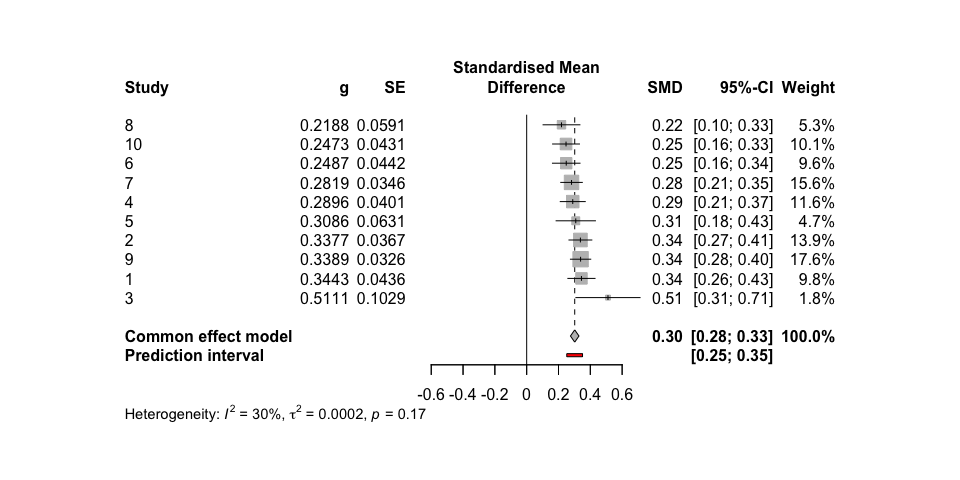
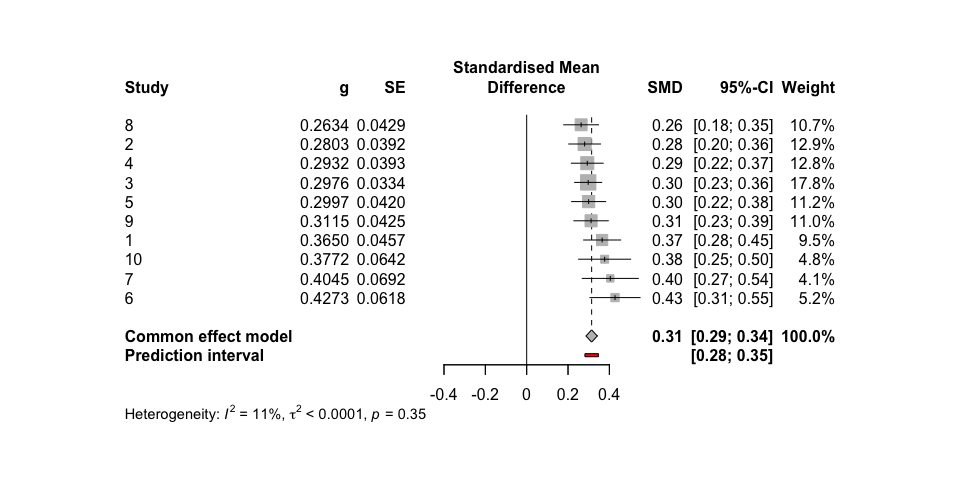
message chunks

diff --git a/README.md b/README.md
@@ -48,29 +48,18 @@ head(sim)
 #> # A tibble: 6 × 10
 #>   study hedges_g     se   mean_x mean_y  sd_x  sd_y   n_x   n_y      vi
 #>   <int>    <dbl>  <dbl>    <dbl>  <dbl> <dbl> <dbl> <int> <int>   <dbl>
-#> 1     1    0.344 0.0436 -0.00709  0.329 0.974 0.979  1069  1069 0.00190
-#> 2     2    0.338 0.0367  0.00981  0.349 0.963 1.05   1508  1508 0.00135
-#> 3     3    0.511 0.103  -0.0803   0.451 1.01  1.07    195   195 0.0106 
-#> 4     4    0.290 0.0401  0.0438   0.333 0.983 1.01   1257  1257 0.00161
-#> 5     5    0.309 0.0631 -0.0278   0.287 1.05  0.991   509   509 0.00398
-#> 6     6    0.249 0.0442  0.0173   0.272 1.04  1.00   1032  1032 0.00195
+#> 1     1    0.365 0.0457 -0.0101   0.359 1.00  1.02    975   975 0.00209
+#> 2     2    0.280 0.0392  0.0250   0.306 0.991 1.02   1317  1317 0.00153
+#> 3     3    0.298 0.0334  0.00602  0.305 1.01  0.999  1817  1817 0.00111
+#> 4     4    0.293 0.0393 -0.00129  0.301 1.04  1.02   1309  1309 0.00154
+#> 5     5    0.300 0.0420 -0.00234  0.300 1.01  1.00   1147  1147 0.00176
+#> 6     6    0.427 0.0618 -0.0634   0.365 1.00  0.998   535   535 0.00382
 ```
 
 # Effect size and standard error
 
 ``` r
 require(tidyverse)
-#> Loading required package: tidyverse
-#> ── Attaching core tidyverse packages ──────────────────────── tidyverse 2.0.0 ──
-#> ✔ dplyr     1.1.4     ✔ readr     2.1.4
-#> ✔ forcats   1.0.0     ✔ stringr   1.5.0
-#> ✔ ggplot2   3.4.4     ✔ tibble    3.2.1
-#> ✔ lubridate 1.9.3     ✔ tidyr     1.3.0
-#> ✔ purrr     1.0.2     
-#> ── Conflicts ────────────────────────────────────────── tidyverse_conflicts() ──
-#> ✖ dplyr::filter() masks stats::filter()
-#> ✖ dplyr::lag()    masks stats::lag()
-#> ℹ Use the conflicted package (<http://conflicted.r-lib.org/>) to force all conflicts to become errors
 
 ggplot(sim, aes(x = hedges_g, y = log(se), color = n_x))+
   geom_point(alpha = 0.5)+
@@ -106,29 +95,29 @@ summary(metaanalysis)
 #> Review:     Meta-Analysis fixed-effect
 #> 
 #>       SMD           95%-CI %W(common)
-#> 1  0.3443 [0.2589; 0.4297]        9.8
-#> 2  0.3377 [0.2658; 0.4096]       13.9
-#> 3  0.5111 [0.3094; 0.7128]        1.8
-#> 4  0.2896 [0.2110; 0.3682]       11.6
-#> 5  0.3086 [0.1850; 0.4322]        4.7
-#> 6  0.2487 [0.1620; 0.3353]        9.6
-#> 7  0.2819 [0.2142; 0.3497]       15.6
-#> 8  0.2188 [0.1030; 0.3347]        5.3
-#> 9  0.3389 [0.2750; 0.4027]       17.6
-#> 10 0.2473 [0.1629; 0.3318]       10.1
+#> 1  0.3650 [0.2755; 0.4545]        9.5
+#> 2  0.2803 [0.2036; 0.3571]       12.9
+#> 3  0.2976 [0.2322; 0.3630]       17.8
+#> 4  0.2932 [0.2162; 0.3702]       12.8
+#> 5  0.2997 [0.2174; 0.3820]       11.2
+#> 6  0.4273 [0.3061; 0.5485]        5.2
+#> 7  0.4045 [0.2689; 0.5402]        4.1
+#> 8  0.2634 [0.1792; 0.3475]       10.7
+#> 9  0.3115 [0.2283; 0.3947]       11.0
+#> 10 0.3772 [0.2514; 0.5030]        4.8
 #> 
 #> Number of studies: k = 10
 #> 
 #>                        SMD           95%-CI     z  p-value
-#> Common effect model 0.3020 [0.2752; 0.3288] 22.09 < 0.0001
+#> Common effect model 0.3142 [0.2867; 0.3418] 22.34 < 0.0001
 #> 
 #> Quantifying heterogeneity:
-#>  tau^2 = 0.0002 [0.0000; 0.0151]; tau = 0.0156 [0.0000; 0.1230]
-#>  I^2 = 29.6% [0.0%; 66.3%]; H = 1.19 [1.00; 1.72]
+#>  tau^2 < 0.0001 [0.0000; 0.0077]; tau = 0.0011 [0.0000; 0.0878]
+#>  I^2 = 10.5% [0.0%; 51.0%]; H = 1.06 [1.00; 1.43]
 #> 
 #> Test of heterogeneity:
 #>      Q d.f. p-value
-#>  12.79    9  0.1725
+#>  10.06    9  0.3459
 #> 
 #> Details on meta-analytical method:
 #> - Inverse variance method
@@ -162,12 +151,12 @@ head(sim)
 #> # A tibble: 6 × 10
 #>   study hedges_g     se   mean_x mean_y  sd_x  sd_y   n_x   n_y      vi
 #>   <int>    <dbl>  <dbl>    <dbl>  <dbl> <dbl> <dbl> <int> <int>   <dbl>
-#> 1     1    0.704 0.0347  0.0320   0.734 0.971 1.02   1760  1760 0.00121
-#> 2     2    0.627 0.0357 -0.00514  0.632 1.00  1.03   1649  1649 0.00127
-#> 3     3    0.666 0.0399  0.00806  0.666 0.991 0.984  1324  1324 0.00159
-#> 4     4    0.599 0.0362  0.0108   0.608 0.985 1.01   1592  1592 0.00131
-#> 5     5    0.693 0.0969  0.0329   0.755 1.05  1.03    226   226 0.00938
-#> 6     6    0.708 0.0838  0.0131   0.735 1.01  1.02    303   303 0.00701
+#> 1     1    0.815 0.0433 -0.0621   0.749 1.00  0.990  1155  1155 0.00188
+#> 2     2    0.582 0.0795  0.0749   0.686 1.10  1.00    330   330 0.00632
+#> 3     3    0.680 0.0623 -0.0652   0.640 1.06  1.02    545   545 0.00388
+#> 4     4    0.717 0.0381 -0.00661  0.715 1.01  1.00   1468  1468 0.00145
+#> 5     5    0.511 0.0384  0.107    0.622 0.993 1.02   1401  1401 0.00147
+#> 6     6    0.734 0.0364  0.0545   0.784 0.991 0.995  1613  1613 0.00132
 ```
 
 Run Random-Effects Meta-Analysis
@@ -202,29 +191,29 @@ summary(metaanalysis)
 #> Review:     Meta-Analysis fixed-effect
 #> 
 #>       SMD           95%-CI %W(random)
-#> 1  0.7037 [0.6356; 0.7718]       13.9
-#> 2  0.6266 [0.5567; 0.6965]       13.7
-#> 3  0.6659 [0.5876; 0.7441]       12.8
-#> 4  0.5988 [0.5278; 0.6698]       13.5
-#> 5  0.6929 [0.5030; 0.8827]        5.0
-#> 6  0.7079 [0.5438; 0.8721]        6.2
-#> 7  0.7250 [0.6153; 0.8348]        9.8
-#> 8  0.7678 [0.6891; 0.8465]       12.7
-#> 9  0.7661 [0.3789; 1.1533]        1.5
-#> 10 0.8610 [0.7642; 0.9578]       10.9
+#> 1  0.8148 [0.7299; 0.8997]       11.1
+#> 2  0.5816 [0.4258; 0.7374]        7.4
+#> 3  0.6802 [0.5581; 0.8023]        9.1
+#> 4  0.7171 [0.6424; 0.7917]       11.6
+#> 5  0.5111 [0.4358; 0.5863]       11.6
+#> 6  0.7344 [0.6631; 0.8057]       11.8
+#> 7  0.6044 [0.4824; 0.7264]        9.1
+#> 8  0.6849 [0.5821; 0.7876]       10.1
+#> 9  0.8166 [0.7328; 0.9004]       11.1
+#> 10 0.7004 [0.5383; 0.8626]        7.2
 #> 
 #> Number of studies: k = 10
 #> 
 #>                              SMD           95%-CI     t  p-value
-#> Random effects model (HK) 0.7023 [0.6447; 0.7598] 27.61 < 0.0001
+#> Random effects model (HK) 0.6891 [0.6172; 0.7609] 21.69 < 0.0001
 #> 
 #> Quantifying heterogeneity:
-#>  tau^2 = 0.0034 [0.0007; 0.0162]; tau = 0.0587 [0.0265; 0.1274]
-#>  I^2 = 65.8% [33.0%; 82.5%]; H = 1.71 [1.22; 2.39]
+#>  tau^2 = 0.0073 [0.0024; 0.0292]; tau = 0.0852 [0.0491; 0.1710]
+#>  I^2 = 79.8% [63.5%; 88.8%]; H = 2.22 [1.65; 2.98]
 #> 
 #> Test of heterogeneity:
-#>      Q d.f. p-value
-#>  26.31    9  0.0018
+#>      Q d.f.  p-value
+#>  44.45    9 < 0.0001
 #> 
 #> Details on meta-analytical method:
 #> - Inverse variance method
